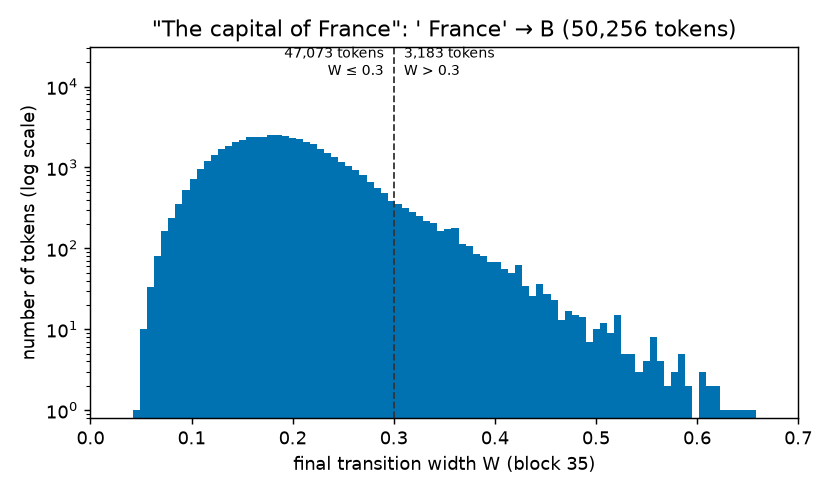
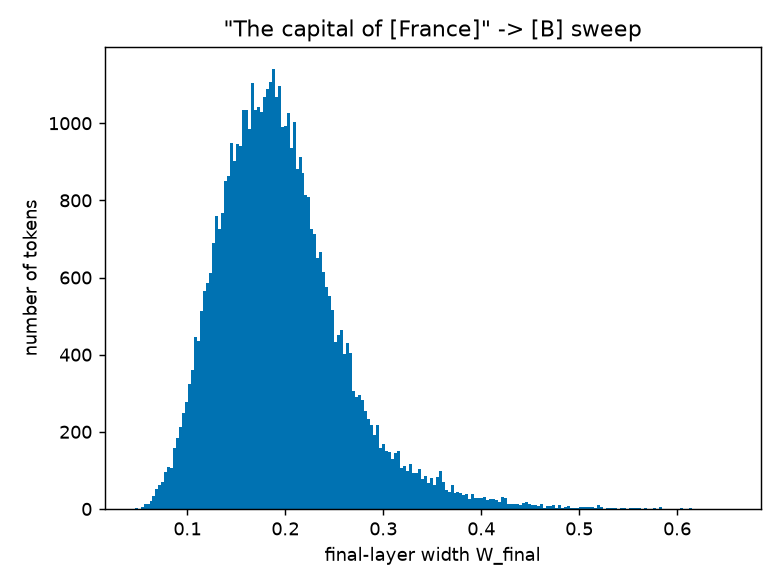
[dir29_france_vocab_sweep] autoloop iter 2026-10-14 01:16:08

Changed region(s): [[0.0, 0.0304, 0.9846, 0.9717], [0.4615, 0.2733, 0.4923, 0.3036], [0.4615, 0.2126, 0.4923, 0.2429]]

diff --git a/dir29_france_vocab_sweep/experiments/analyze.py b/dir29_france_vocab_sweep/experiments/analyze.py
@@ -1,15 +1,12 @@
-"""Aggregate the ' France' sweep -> per-token CSV, both sides of W_final = 0.3 as sorted lists, histogram.
+"""Aggregate the ' France' sweep -> per-token CSV, both sides of W_final = 0.3 as sorted lists.
 
-Flag rule and columns are Direction 27's (s3_plots.py); histogram conventions are Direction 28's.
+Flag rule and columns are Direction 27's (s3_plots.py). The histogram is drawn by plot_sweep.py.
 """
 import csv
 import glob
 import json
 import os
 
-import matplotlib
-matplotlib.use("Agg")
-import matplotlib.pyplot as plt
 import numpy as np
 from transformers import AutoTokenizer
 
@@ -17,7 +14,7 @@ from sweep import PROMPT, ROOT, d27
 
 THR = 0.3
 BACKSTEP = 0.05
-RES, PLOTS = os.path.join(ROOT, "results"), os.path.join(ROOT, "plots")
+RES = os.path.join(ROOT, "results")
 
 
 def load():
@@ -64,23 +61,6 @@ def main():
                    W_min=float(Wf.min()), W_max=float(Wf.max()))
     json.dump(summary, open(os.path.join(RES, "summary.json"), "w"), indent=1)
     print(summary)
-
-    bins = np.linspace(0, np.ceil(Wf.max() * 10) / 10, 101)
-    ymax = np.histogram(Wf, bins)[0].max() * 12
-    fig, ax = plt.subplots(figsize=(6.4, 3.8))
-    ax.hist(Wf, bins=bins, color=d27.CVD[0], edgecolor="none")
-    ax.axvline(THR, color="0.2", ls="--", lw=1)
-    ax.text(THR - 0.01, ymax / 2.2, f"{len(le):,} tokens\nW ≤ 0.3", fontsize=8, ha="right")
-    ax.text(THR + 0.01, ymax / 2.2, f"{len(gt):,} tokens\nW > 0.3", fontsize=8)
-    ax.set_yscale("log")
-    ax.set_ylim(0.8, ymax)
-    ax.set_xlim(bins[0], bins[-1])
-    ax.set_xlabel("final transition width W (block 35)")
-    ax.set_ylabel("number of tokens (log scale)")
-    ax.set_title(f"\"{PROMPT}\": ' France' → B ({len(Wf):,} tokens)")
-    fig.tight_layout()
-    fig.savefig(os.path.join(PLOTS, "france_vocab_width_histogram.png"), dpi=130)
-    plt.close(fig)
 
 
 if __name__ == "__main__":

diff --git a/dir29_france_vocab_sweep/experiments/plot_sweep.py b/dir29_france_vocab_sweep/experiments/plot_sweep.py
@@ -1,0 +1,49 @@
+"""Draw the ' France' -> B sweep histogram (Figure 1) from the saved per-token CSV. Runs no model.
+
+Style follows panel (a) of Direction 27's fig2_final_width_distribution.png (s3_plots.py).
+To restyle the figure, edit the STYLE block and re-run; see ../PLOTTING.md.
+"""
+import csv
+import os
+
+import matplotlib
+matplotlib.use("Agg")
+import matplotlib.pyplot as plt
+import numpy as np
+
+ROOT = os.path.dirname(os.path.dirname(os.path.abspath(__file__)))
+DATA = os.path.join(ROOT, "results", "france_tokens.csv")
+OUT = os.path.join(ROOT, "plots", "france_vocab_width_histogram.png")
+
+# ---- STYLE: edit here ----
+FIGSIZE = (6, 4.5)  # inches; one panel of Direction 27's 12 x 4.5 two-panel figure
+DPI = 130
+BINS = 200
+COLOR = "#0072B2"  # CVD[0], blue
+TITLE = '"The capital of [France]" -> [B] sweep'
+XLABEL = "final-layer width W_final"
+YLABEL = "number of tokens"
+# --------------------------
+
+
+def load_data(path=DATA):
+    """Return W_final for every token B in the sweep (one row of the CSV per token)."""
+    with open(path, newline="") as f:
+        return np.array([float(r["W_final"]) for r in csv.DictReader(f)])
+
+
+def plot(Wf, out=OUT):
+    fig, ax = plt.subplots(figsize=FIGSIZE)
+    ax.hist(Wf, bins=BINS, color=COLOR)
+    ax.set_xlabel(XLABEL)
+    ax.set_ylabel(YLABEL)
+    ax.set_title(TITLE)
+    fig.tight_layout()
+    fig.savefig(out, dpi=DPI)
+    plt.close(fig)
+
+
+if __name__ == "__main__":
+    Wf = load_data()
+    plot(Wf)
+    print(f"{len(Wf)} tokens -> {OUT}")

diff --git a/dir29_france_vocab_sweep/PLOTTING.md b/dir29_france_vocab_sweep/PLOTTING.md
@@ -1,0 +1,40 @@
+# How to redraw the sweep histogram
+
+This note is for people and agents who need to change the look of the sweep plot
+(Figure 1 of `REPORT.md` and `RESULTS.md`).
+
+| What | Where |
+|------|-------|
+| Plot script | `experiments/plot_sweep.py` |
+| Data it reads | `results/france_tokens.csv` (one row per token B; the script uses the column `W_final`) |
+| Figure it writes | `plots/france_vocab_width_histogram.png` |
+
+## Command
+
+Run from this direction's root (`dir29_france_vocab_sweep/`):
+
+```
+MPLBACKEND=Agg python3 experiments/plot_sweep.py
+```
+
+It takes a few seconds, needs no GPU and loads no model. It overwrites the PNG in place.
+
+## Changing the style
+
+Edit the `STYLE` block at the top of `experiments/plot_sweep.py` (figure size, DPI, number of bins, colour,
+title, axis labels) and re-run the command. For changes beyond those settings, edit `plot()`.
+`load_data()` only reads the CSV and does not need to change for a style edit.
+
+The current style copies panel (a) of Direction 27's
+`../dir27_interp_dist_vs_plateau_width/plots/block0_resid_post/fig2_final_width_distribution.png`:
+one 6 x 4.5 in panel, 200 bins, linear y-axis, default matplotlib styling. The title is
+`"The capital of [France]" -> [B] sweep`.
+
+## Data
+
+`results/france_tokens.csv` is written by `experiments/analyze.py` from the raw sweep shards. Re-run
+`analyze.py` only if the sweep itself changes; a style change never needs it. `W_final` is the transition
+width at the final block (block 35) of GPT-2 Large, as defined in `REPORT.md` Methods.
+
+If the caption needs to change with the style (for example a log axis), update the Figure 1 caption in
+`REPORT.md` and `RESULTS.md` too. Keep to the colour rules in `../CLAUDE.md` rule 13.

diff --git a/dir29_france_vocab_sweep/JOURNAL.md b/dir29_france_vocab_sweep/JOURNAL.md
@@ -82,3 +82,15 @@ On track? blocked — waiting for the operator to answer A (width histogram) or 
   copy of the histogram in `analyze.py` (two scripts would write the same PNG with different styles).
 
 On track? yes — next pass implements the plot script, PLOTTING.md and the Figure 1 caption changes.
+
+## 2026-10-14 — implemented the Figure 1 restyle (human_feedback.txt)
+
+- Wrote `experiments/plot_sweep.py` (CSV loader `load_data()`, a `STYLE` block, `plot()`); it reads `W_final` from
+  `results/france_tokens.csv` and runs no model. Output PNG is 780 x 585 px, exactly one half of Direction 27's
+  1560 x 585 two-panel figure. Compared both images by eye: same bars, labels and default styling; only the title differs.
+- Removed the histogram block and its now-unused matplotlib imports / `PLOTS` from `analyze.py`. Did not re-run it;
+  results CSVs and `summary.json` are byte-identical (sha256 checked against the manifest baseline).
+- Wrote `PLOTTING.md`; updated the Figure 1 caption in REPORT.md and RESULTS.md. `check_render.py` passes.
+- Not touched: `.tasks/human_feedback_2.txt.manifest.json` is outside this task's declared paths. The same files answer it.
+
+On track? yes — this task is complete and set to `review_pending`.

diff --git a/dir29_france_vocab_sweep/CHANGELOG.md b/dir29_france_vocab_sweep/CHANGELOG.md
@@ -14,3 +14,12 @@ RESULTS.md and every REPORT*.md stay current-best with no history.
 - Framing: the PLAN labels W ≤ 0.3 as "non-plateau", but Figure 2 shows that small W is the flat-then-jump plateau
   shape (Direction 27's definition). The report gives the literal W ≤ 0.3 list and also names the W > 0.3 side as the
   smooth transitions. No superseded numbers.
+
+## 2026-10-14 — Figure 1 restyled (human_feedback.txt, human_feedback_2.txt)
+- `plots/france_vocab_width_histogram.png` redrawn in the style of panel (a) of Direction 27's
+  `fig2_final_width_distribution.png`: 6 x 4.5 in (was 6.4 x 3.8), 200 bins (was 100), linear y-axis (was log), no dashed
+  W = 0.3 line and no count annotations, title `"The capital of [France]" -> [B] sweep`.
+- REPORT.md and RESULTS.md: Figure 1 caption updated to match (linear scale, 200 bins, no dashed line). No numbers changed;
+  the counts on each side of W = 0.3 stay in the prose and tables.
+- Code: the figure is now drawn by the new `experiments/plot_sweep.py` from `results/france_tokens.csv`; the histogram
+  block was removed from `experiments/analyze.py`. `PLOTTING.md` documents script, data and command.

diff --git a/dir29_france_vocab_sweep/PLAN.md b/dir29_france_vocab_sweep/PLAN.md
@@ -156,6 +156,7 @@ names). REPORT Methods notes this.
 
 ## Next step
 
-Feedback tasks `human_feedback.txt` and `human_feedback_2.txt` are triaged and `ready` (2026-10-14): write
-`experiments/plot_sweep.py` + `PLOTTING.md`, redraw `plots/france_vocab_width_histogram.png` in the Direction 27 fig2 panel (a)
-style, and update the Figure 1 caption in REPORT.md / RESULTS.md. No new analysis.
+`human_feedback.txt` is implemented and `review_pending` (2026-10-14): `experiments/plot_sweep.py` and `PLOTTING.md` exist,
+`plots/france_vocab_width_histogram.png` is redrawn in the Direction 27 fig2 panel (a) style, and the Figure 1 captions in
+REPORT.md / RESULTS.md are updated. `human_feedback_2.txt` asks for the same change and is answered by the same files; its
+manifest still needs its completion fields filled. No new analysis.

diff --git a/dir29_france_vocab_sweep/REPORT.md b/dir29_france_vocab_sweep/REPORT.md
@@ -102,8 +102,8 @@ tokens:
 
 ![Histogram of final transition widths](plots/france_vocab_width_histogram.png)
 
-**Figure 1.** Final transition width for ` France` → B, over all 50,256 tokens B. x: W at block 35;
-y: number of tokens per bin (log scale; 100 equal bins). The dashed line marks W = 0.3.
+**Figure 1.** Final transition width for ` France` → B, over all 50,256 tokens B. x: the width W at
+block 35 (labelled W_final on the axis); y: number of tokens per bin (linear scale; 200 equal bins).
 
 The distribution has one broad peak and a long tail toward wide switches. The median W is 0.188, and the
 middle half of tokens lies between 0.151 and 0.229. The range runs from 0.046 to 0.655. There are 47,073

diff --git a/dir29_france_vocab_sweep/RESULTS.md b/dir29_france_vocab_sweep/RESULTS.md
@@ -24,7 +24,7 @@ The table below gives simple descriptive counts over all 50,256 tokens B ≠ ` F
 
 ![Histogram of final transition widths](plots/france_vocab_width_histogram.png)
 
-**Figure 1.** W_final for all 50,256 tokens. x: W at block 35; y: tokens per bin (log scale). Dashed line marks W = 0.3.
+**Figure 1.** W_final for all 50,256 tokens. x: W at block 35; y: tokens per bin (linear scale, 200 equal bins). Drawn by `experiments/plot_sweep.py` from `results/france_tokens.csv`; see `PLOTTING.md`.
 
 ## Token lists (machine-readable)
 
